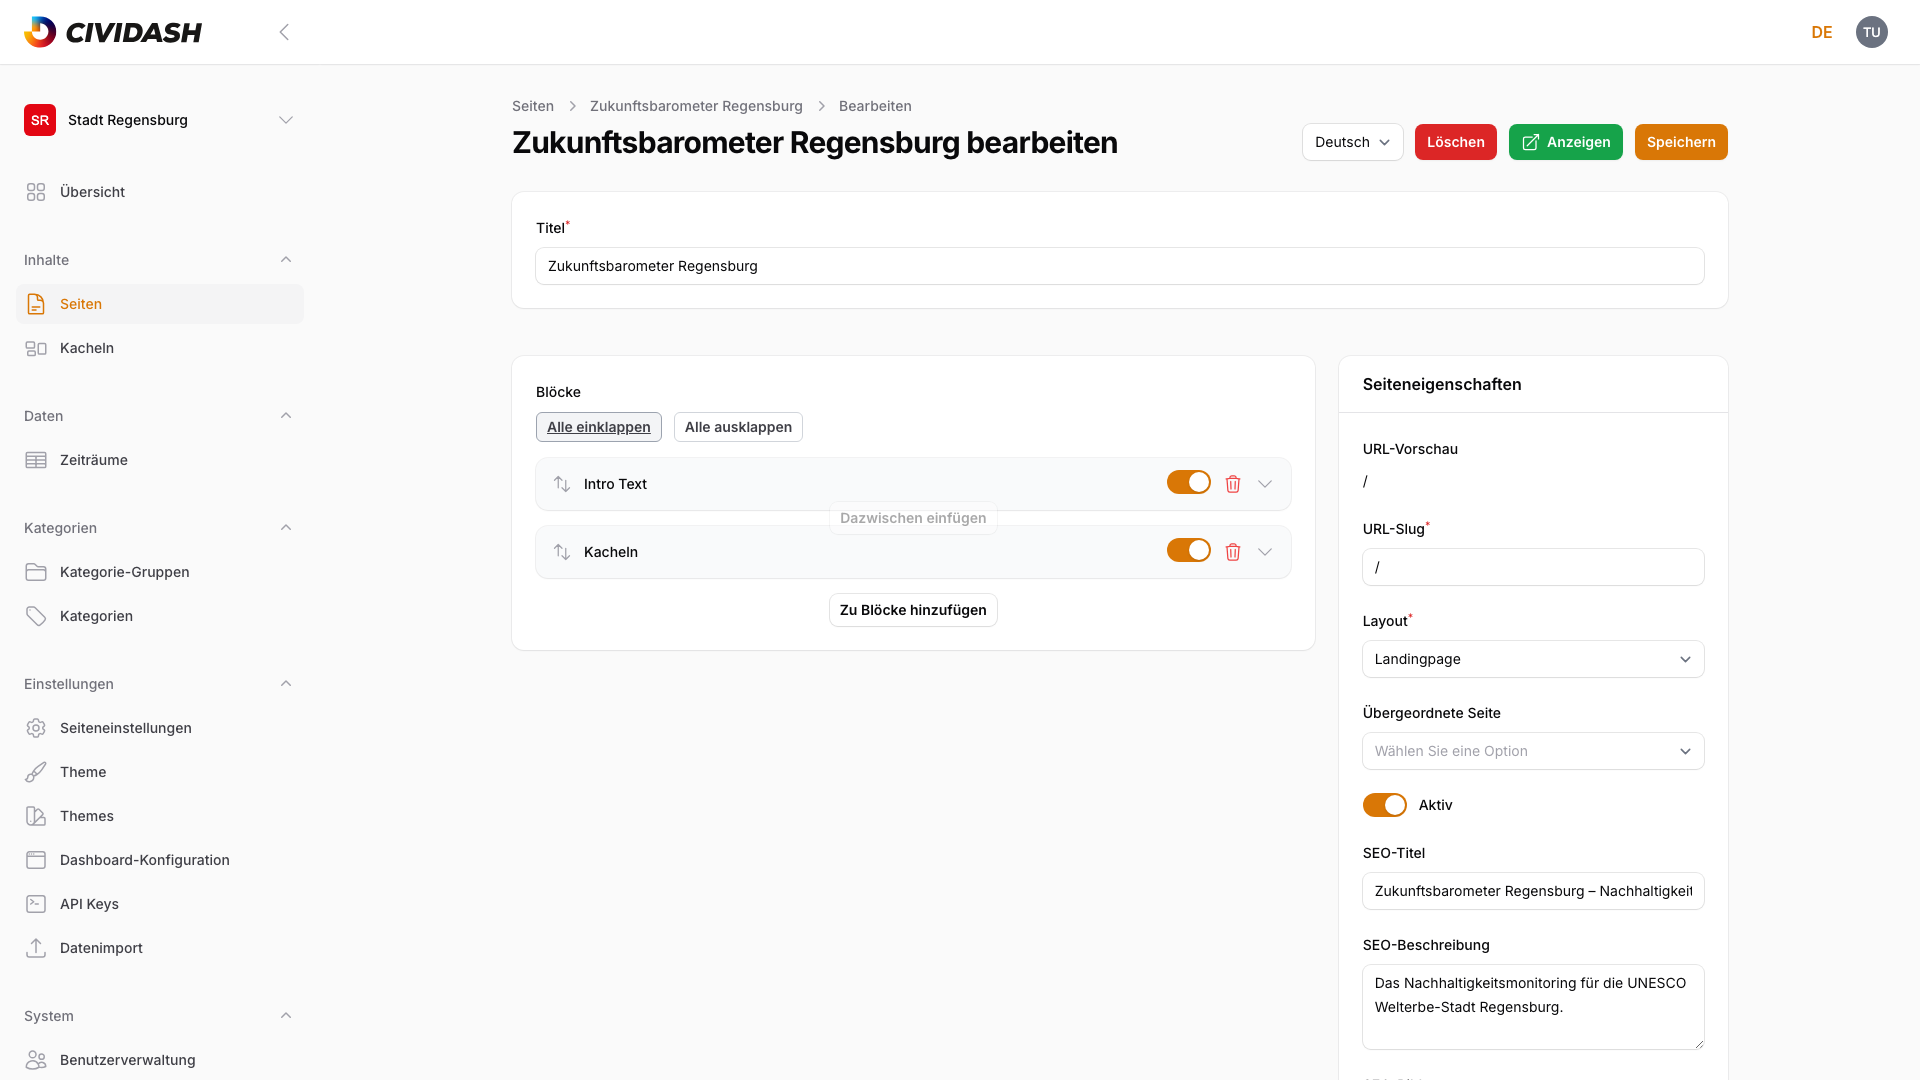
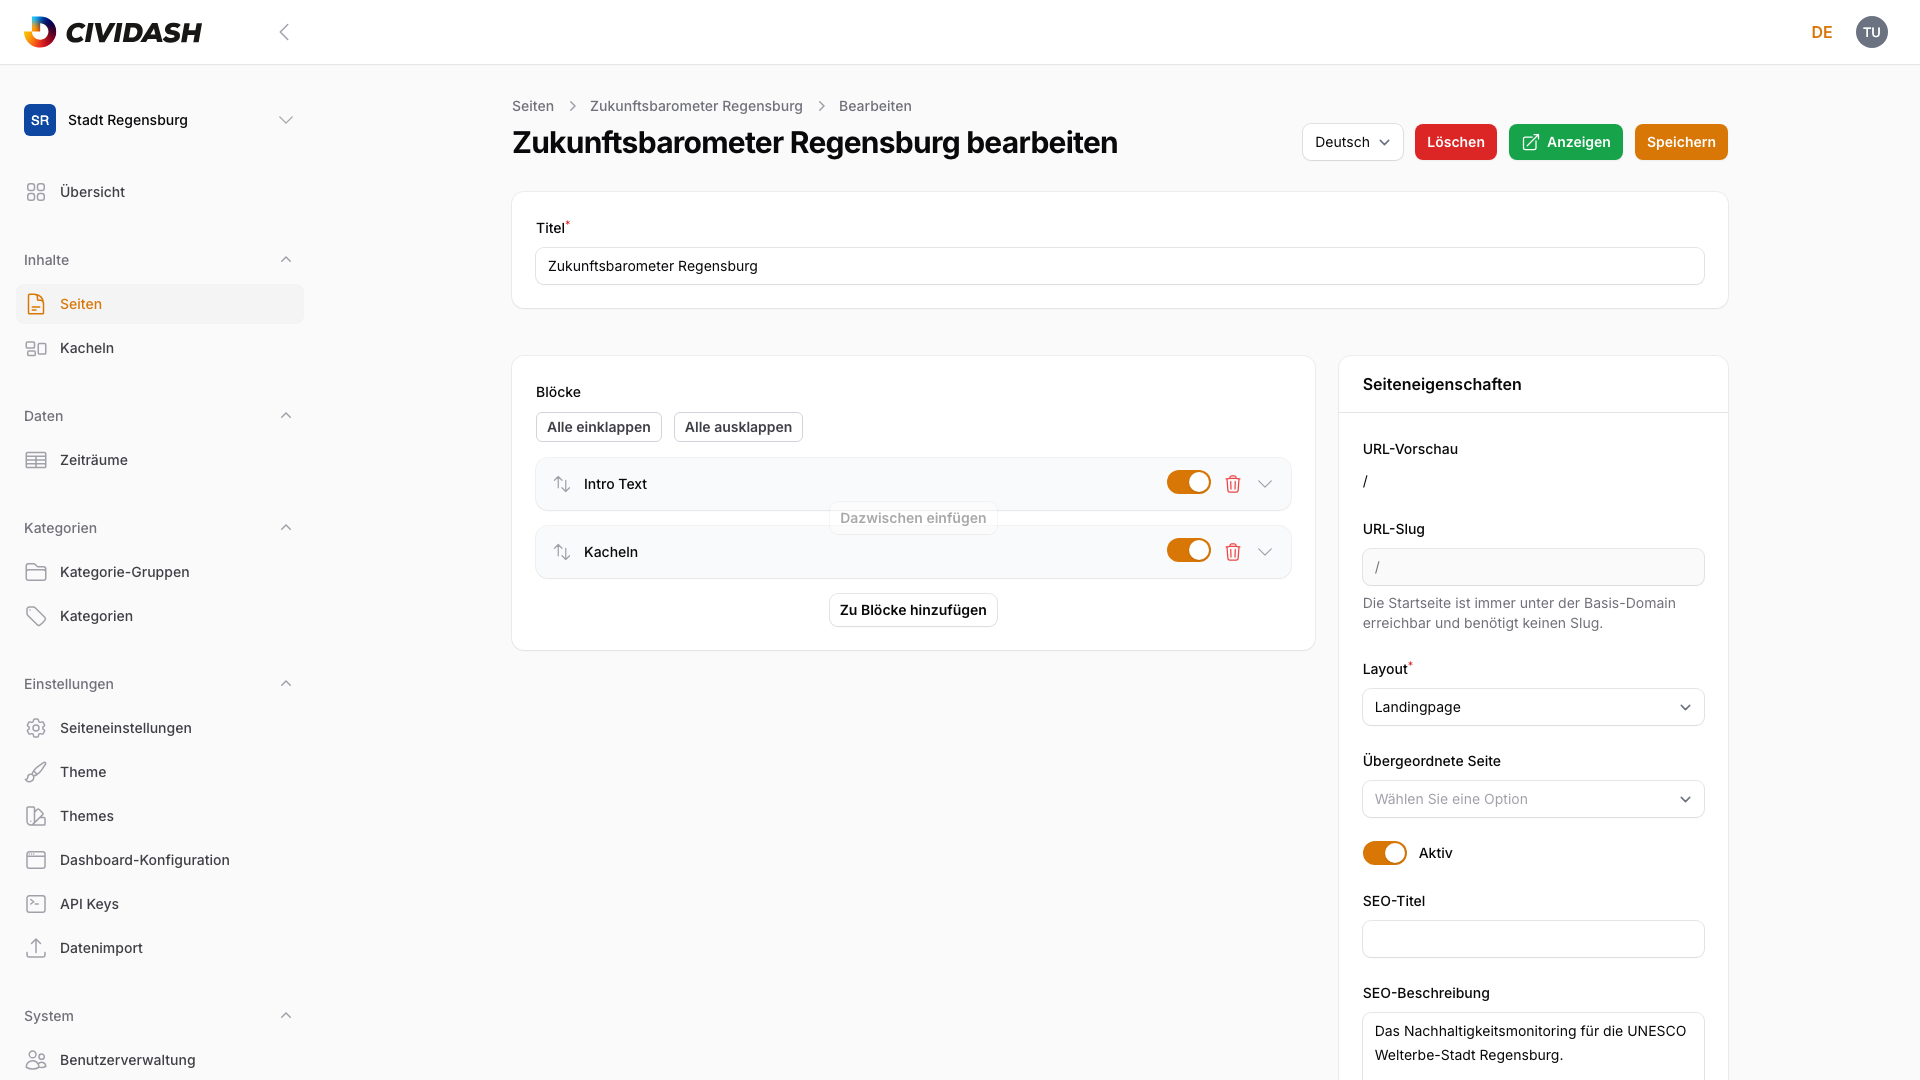
docs: document landing-page fixed slug + refresh edit-page screenshots
Follow-up to the code fix: note in the user guide (DE + EN, chapter
'Seiten verwalten') that a landing page's URL slug is fixed to '/' and
the field is greyed out / not editable (the homepage always uses the
base domain). Re-capture the edit-page screenshots (de/02-seite-bearbeiten,
en/02-edit-page) — both showed the landing page with a previously
editable slug; they now show the disabled slug + helper text.

Changed region(s): [[0.6875, 0.55, 0.875, 1.0], [0.0, 0.0917, 0.0312, 0.1222]]

diff --git a/docs/user-guide/de/02-seiten-verwalten.md b/docs/user-guide/de/02-seiten-verwalten.md
@@ -35,7 +35,7 @@ Mit **Erstellen** oben rechts eine neue Seite anlegen. Das Formular gliedert sic
 | **Aktiv** | Schalter für die Sichtbarkeit im Frontend |
 | **SEO-Titel** / **SEO-Beschreibung** / **SEO-Bild** | Metadaten für Suchmaschinen und das Teilen in sozialen Netzwerken (siehe [Kapitel 2.6, Metadaten pflegen](02-seiten-verwalten.md#26-metadaten-pflegen-seo-titel-beschreibung-vorschaubild)) |
 
-> **Hinweis:** Beim Layout `Landingpage` wird die Seite automatisch zur Startseite des Dashboards (URL-Slug `/`) — pro Dashboard ist nur eine Landingpage sinnvoll. Für alle weiteren Seiten `Subpage` wählen und einen eigenen URL-Slug vergeben.
+> **Hinweis:** Beim Layout `Landingpage` wird die Seite automatisch zur Startseite des Dashboards (URL-Slug `/`) — pro Dashboard ist nur eine Landingpage sinnvoll. Das **URL-Slug-Feld ist dann ausgegraut und lässt sich nicht bearbeiten**, weil die Startseite immer über die Basis-Domain erreichbar ist. Für alle weiteren Seiten `Subpage` wählen und einen eigenen URL-Slug vergeben.
 
 Mit **Erstellen** speichern oder **Erstellen & weiterer Eintrag** direkt eine weitere Seite anlegen.
 

diff --git a/docs/user-guide/en/02-managing-pages.md b/docs/user-guide/en/02-managing-pages.md
@@ -35,7 +35,7 @@ Use **New Page** at the top right to create a page. The form is split into the c
 | **Active** | Toggle for frontend visibility |
 | **SEO Title** / **SEO Description** / **SEO Image** | Metadata for search engines and for sharing on social media (see [Chapter 2.6, Manage Metadata](02-managing-pages.md#26-manage-metadata-seo-title-description-preview-image)) |
 
-> **Note:** With the `Landingpage` layout, the page automatically becomes the dashboard's home page (URL slug `/`) — only one landing page per dashboard makes sense. For any other page, choose `Subpage` and set its own URL slug.
+> **Note:** With the `Landingpage` layout, the page automatically becomes the dashboard's home page (URL slug `/`) — only one landing page per dashboard makes sense. The **URL Slug field is then greyed out and cannot be edited**, because the home page is always served from the base domain. For any other page, choose `Subpage` and set its own URL slug.
 
 Use **Create** to save, or **Create & create another** to immediately start a new page.
 
